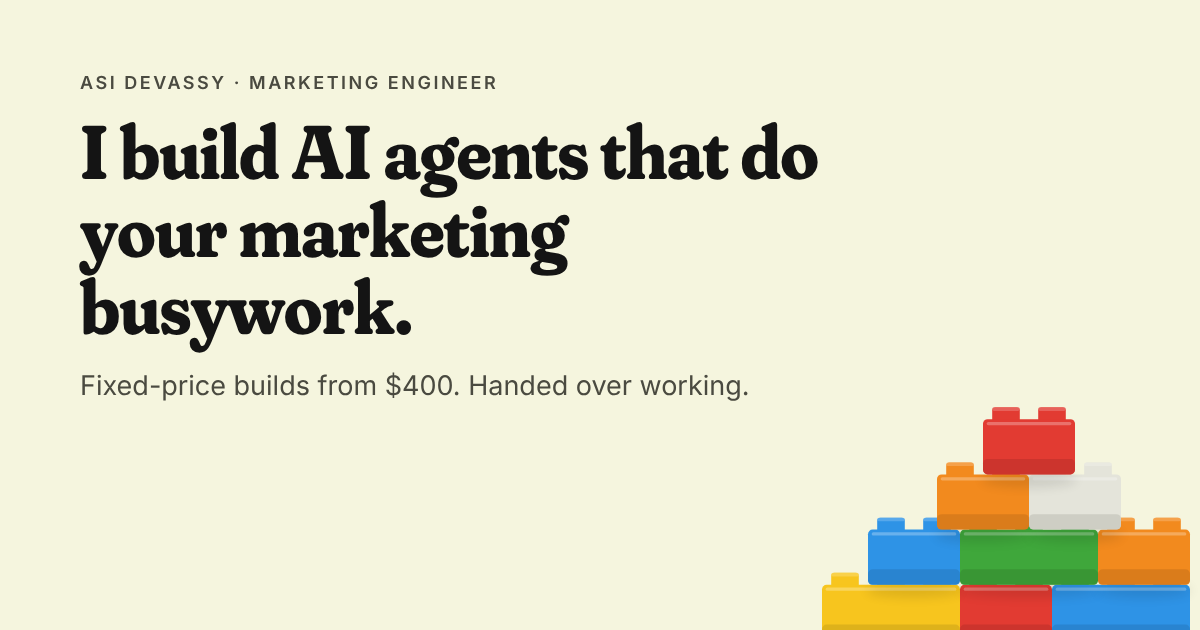
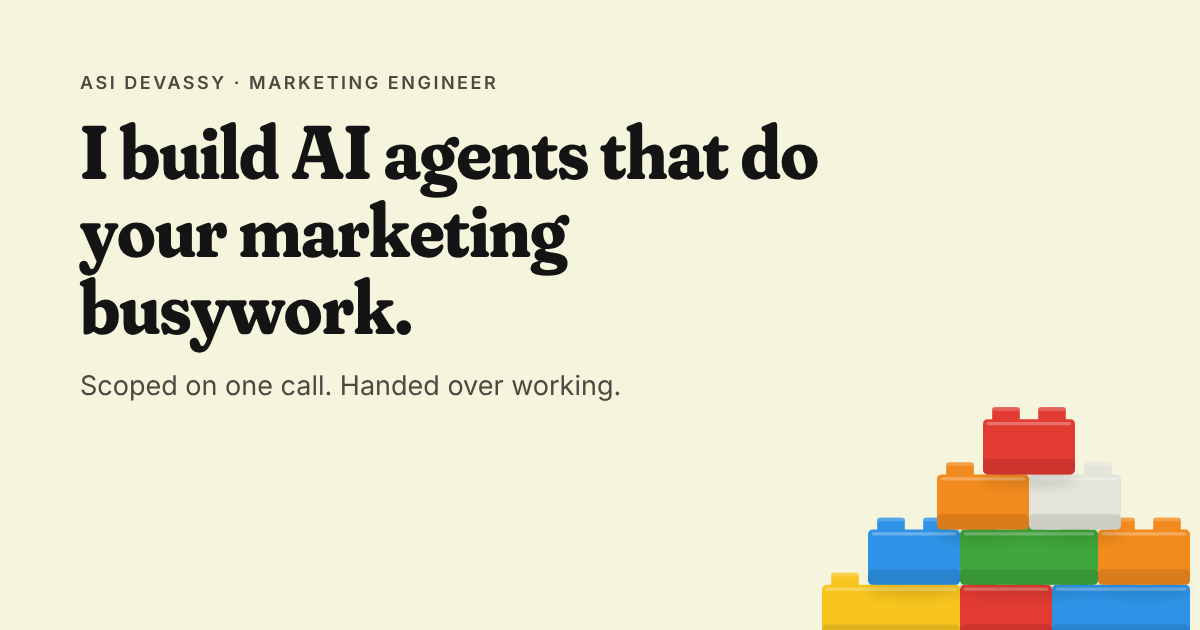
Remove public prices, fix mobile line breaks (#2)
Offers now quote after a 20-minute call. Phone: one-line nav, stacked hero
bricks with short labels, balanced headings, no orphan words.

Claude-Session: https://claude.ai/code/session_016o9eW6doivQFkR9Ekrhgqz

Changed region(s): [[0.0617, 0.573, 0.6167, 0.6333]]

diff --git a/index.html b/index.html
@@ -4,9 +4,9 @@
 <meta charset="utf-8">
 <meta name="viewport" content="width=device-width, initial-scale=1">
 <title>Asi Devassy · AI agents for marketing teams</title>
-<meta name="description" content="I build AI agents and automations that do a marketing team's weekly busywork: reports, competitor tracking and lead alerts. Fixed-price builds from $400.">
+<meta name="description" content="I build AI agents and automations that do a marketing team's weekly busywork: reports, competitor tracking and lead alerts. Scoped on one call, handed over working.">
 <meta property="og:title" content="Asi Devassy · AI agents for marketing teams">
-<meta property="og:description" content="I build AI agents that do your marketing busywork. Fixed-price builds from $400, handed over working.">
+<meta property="og:description" content="I build AI agents that do your marketing busywork. Scoped on one call, handed over working.">
 <meta property="og:image" content="https://assisdevassy.com/og.png">
 <meta property="og:type" content="website">
 <meta name="twitter:card" content="summary_large_image">
@@ -35,6 +35,9 @@ body{background:var(--cream);color:var(--ink);font-family:var(--text);font-size:
 ::selection{background:var(--y);color:var(--ink)}
 a{color:inherit}
 img,svg{display:block}
+h1,h2,h3{text-wrap:balance}
+p,li{text-wrap:pretty}
+.mark{white-space:nowrap}
 .wrap{max-width:1200px;margin:0 auto;padding:0 var(--edge)}
 .d{font-family:var(--display);font-weight:700;font-variation-settings:"SOFT" 100,"WONK" 0,"opsz" 144;letter-spacing:-.012em;line-height:1.02}
 .skip{position:absolute;left:12px;top:-60px;background:var(--ink);color:var(--cream);padding:10px 14px;border-radius:6px;z-index:50}
@@ -93,15 +96,17 @@ section.s{padding:112px 0;border-top:1px solid var(--hairline)}
 
 /* offers */
 .offers{border-top:2px solid var(--ink)}
-.offer{display:grid;grid-template-columns:150px 1fr 170px 210px;gap:28px;align-items:center;padding:28px 0;border-bottom:1px solid var(--hairline)}
+.offer{display:grid;grid-template-columns:150px 1fr 190px;gap:28px;align-items:center;padding:28px 0;border-bottom:1px solid var(--hairline)}
 .mini{display:flex;flex-wrap:wrap;gap:4px 5px;align-items:flex-end}
 .mini .brick{height:22px;width:auto}
 .offer h3{font-family:var(--display);font-weight:700;font-variation-settings:"SOFT" 100,"opsz" 144;font-size:27px;letter-spacing:-.01em;line-height:1.1}
 .offer p{color:var(--ink-2);font-size:16.5px;margin-top:6px;max-width:48ch}
-.offer .t{font-size:15px;color:var(--ink-2)}
+.offer .t{font-size:15px;color:var(--ink-2);text-align:right}
 .offer .p{font-weight:600;font-size:18px;text-align:right}
 .offer .p small{display:block;font-weight:400;font-size:14px;color:var(--ink-2)}
-.teardown{margin-top:40px;display:flex;align-items:center;justify-content:space-between;gap:32px;background:var(--cream-deep);border-radius:12px;padding:28px 32px}
+.quote{margin-top:36px;display:flex;align-items:center;justify-content:space-between;gap:32px}
+.quote p{font-size:18px;max-width:58ch}
+.teardown{margin-top:28px;display:flex;align-items:center;justify-content:space-between;gap:32px;background:var(--cream-deep);border-radius:12px;padding:28px 32px}
 .teardown p{font-size:18px;max-width:62ch}
 .teardown p b{font-weight:600}
 .terms{margin-top:18px;font-size:15px;color:var(--ink-2)}
@@ -169,9 +174,7 @@ footer a{text-underline-offset:3px}
   .hero .wrap{grid-template-columns:1fr;gap:64px}
   .stack{justify-self:start}
   .close h2,.close p{max-width:none}
-  .offer{grid-template-columns:120px 1fr 190px;}
-  .offer .t{grid-column:2;margin-top:-16px}
-  .offer .p{grid-row:1;grid-column:3}
+  .offer{grid-template-columns:120px 1fr 150px}
   .method,.about{grid-template-columns:1fr;gap:56px}
   .about img{max-width:420px}
   .wall{opacity:.35}
@@ -185,14 +188,19 @@ footer a{text-underline-offset:3px}
   section.s{padding:80px 0}
   .shead{grid-template-columns:1fr;gap:16px;margin-bottom:40px}
   .offer{grid-template-columns:1fr;gap:10px;padding:24px 0}
-  .offer .t,.offer .p{grid-column:auto;grid-row:auto;margin:0;text-align:left}
+  .offer .t{text-align:left}
+  .quote{flex-direction:column;align-items:flex-start;gap:20px}
+  .quote .btn{width:100%}
+  .nav .long{display:none}
+  .mark{font-size:21px}
   .teardown{flex-direction:column;align-items:flex-start;padding:24px}
   .teardown .btn{width:100%}
   .steps,.builds{grid-template-columns:1fr}
   .rules li,.tuesday{grid-template-columns:48px 1fr}
-  .row{grid-template-columns:124px 1fr;gap:12px;margin-top:-5px}
-  .row .brick{height:40px;margin-left:calc(var(--x,0) / 2)}
-  .row p{font-size:13px;line-height:1.25;padding-top:8px}
+  .stack h2 b{font-size:26px}
+  .row{grid-template-columns:122px 1fr;gap:10px;margin-top:-4px}
+  .row .brick{height:34px;margin-left:calc(var(--x,0) / 3)}
+  .row p{font-size:13.5px;line-height:1.12;padding-top:6px;white-space:nowrap}
   .row p b{display:block;margin:0}
   .wall{display:none}
   .close{padding:88px 0}
@@ -206,11 +214,11 @@ footer a{text-underline-offset:3px}
   <div class="wrap">
     <a class="mark d" href="#top" aria-label="Asi Devassy, back to top"><svg class="brick" viewBox="0 0 60 43.8" width="60" height="43.8" aria-hidden="true" focusable="false"><rect x="6.0" y="0" width="18.0" height="10.8" rx="2.1" fill="#E23B32"/><rect x="6.0" y="0" width="18.0" height="2.4" rx="1.2" fill="#eb7670" opacity=".7"/><rect x="36.0" y="0" width="18.0" height="10.8" rx="2.1" fill="#E23B32"/><rect x="36.0" y="0" width="18.0" height="2.4" rx="1.2" fill="#eb7670" opacity=".7"/><rect y="7.8" width="60.0" height="36.0" rx="3.0" fill="#E23B32"/><rect y="33.7" width="60.0" height="10.1" rx="3.0" fill="#b93029" opacity=".55"/><rect x="2.4" y="9.6" width="55.2" height="2.1" rx="1.1" fill="#fff" opacity=".28"/></svg>Asi Devassy</a>
     <nav class="links" aria-label="Primary">
-      <a href="#offers">Prices</a>
+      <a href="#offers">Services</a>
       <a href="#method">How it works</a>
       <a href="#builds">Builds</a>
       <a href="#about">About</a>
-      <a class="btn solid" href="mailto:assisdevassy@gmail.com?subject=A%20chore%20for%20you">Email me a chore</a>
+      <a class="btn solid" href="mailto:assisdevassy@gmail.com?subject=A%20chore%20for%20you">Email me<span class="long"> a chore</span></a>
     </nav>
   </div>
 </header>
@@ -225,18 +233,18 @@ footer a{text-underline-offset:3px}
       <p class="sub">Weekly reports, competitor tracking, lead alerts. Built on the tools your team already uses, then handed over working, with the run log and the off switch.</p>
       <div class="ctas">
         <a class="btn solid" href="mailto:assisdevassy@gmail.com?subject=A%20chore%20for%20you">Email me a chore</a>
-        <a class="btn line" href="#offers">See the fixed prices</a>
+        <a class="btn line" href="#offers">See what I build</a>
       </div>
-      <p class="facts"><span><b>Six years</b> in marketing</span><span><b>Four</b> open-source builds on GitHub</span><span>Builds from <b>$400</b></span></p>
+      <p class="facts"><span><b>Six years</b> in marketing</span><span><b>Four</b> open-source builds on GitHub</span><span><b>Fixed quote</b> after one call</span></p>
     </div>
 
-    <div class="stack" role="img" aria-label="A weekly performance report split into its parts: a script pulls seven sources, an agent writes what moved and why, it reads your metric rules and past reports, you approve it, and it runs every Monday morning.">
+    <div class="stack" role="img" aria-label="A weekly performance report split into its parts: a script pulls in seven sources, an agent writes what moved and why using your metric rules, you approve it first, and it runs every Monday morning.">
       <h2>One chore, sorted into bricks<b>Weekly performance report</b></h2>
       <div class="row" style="--i:4;z-index:5;--x:60px"><svg class="brick" viewBox="0 0 120 58.4" width="120" height="58.4" aria-hidden="true" focusable="false"><rect x="8.0" y="0" width="24.0" height="14.4" rx="2.8" fill="#F28A1E"/><rect x="8.0" y="0" width="24.0" height="3.2" rx="1.6" fill="#f6ad62" opacity=".7"/><rect x="48.0" y="0" width="24.0" height="14.4" rx="2.8" fill="#F28A1E"/><rect x="48.0" y="0" width="24.0" height="3.2" rx="1.6" fill="#f6ad62" opacity=".7"/><rect x="88.0" y="0" width="24.0" height="14.4" rx="2.8" fill="#F28A1E"/><rect x="88.0" y="0" width="24.0" height="3.2" rx="1.6" fill="#f6ad62" opacity=".7"/><rect y="10.4" width="120.0" height="48.0" rx="4.0" fill="#F28A1E"/><rect y="45.0" width="120.0" height="13.4" rx="4.0" fill="#c67119" opacity=".55"/><rect x="3.2" y="12.8" width="113.6" height="2.8" rx="1.4" fill="#fff" opacity=".28"/></svg><p><b>Schedule</b>Runs every Monday.</p></div>
-      <div class="row" style="--i:3;z-index:4;--x:40px"><svg class="brick" viewBox="0 0 80 58.4" width="80" height="58.4" aria-hidden="true" focusable="false"><rect x="8.0" y="0" width="24.0" height="14.4" rx="2.8" fill="#E23B32"/><rect x="8.0" y="0" width="24.0" height="3.2" rx="1.6" fill="#eb7670" opacity=".7"/><rect x="48.0" y="0" width="24.0" height="14.4" rx="2.8" fill="#E23B32"/><rect x="48.0" y="0" width="24.0" height="3.2" rx="1.6" fill="#eb7670" opacity=".7"/><rect y="10.4" width="80.0" height="48.0" rx="4.0" fill="#E23B32"/><rect y="45.0" width="80.0" height="13.4" rx="4.0" fill="#b93029" opacity=".55"/><rect x="3.2" y="12.8" width="73.6" height="2.8" rx="1.4" fill="#fff" opacity=".28"/></svg><p><b>Human</b>You approve it before it ships.</p></div>
+      <div class="row" style="--i:3;z-index:4;--x:40px"><svg class="brick" viewBox="0 0 80 58.4" width="80" height="58.4" aria-hidden="true" focusable="false"><rect x="8.0" y="0" width="24.0" height="14.4" rx="2.8" fill="#E23B32"/><rect x="8.0" y="0" width="24.0" height="3.2" rx="1.6" fill="#eb7670" opacity=".7"/><rect x="48.0" y="0" width="24.0" height="14.4" rx="2.8" fill="#E23B32"/><rect x="48.0" y="0" width="24.0" height="3.2" rx="1.6" fill="#eb7670" opacity=".7"/><rect y="10.4" width="80.0" height="48.0" rx="4.0" fill="#E23B32"/><rect y="45.0" width="80.0" height="13.4" rx="4.0" fill="#b93029" opacity=".55"/><rect x="3.2" y="12.8" width="73.6" height="2.8" rx="1.4" fill="#fff" opacity=".28"/></svg><p><b>Human</b>You approve it first.</p></div>
       <div class="row" style="--i:2;z-index:3"><svg class="brick" viewBox="0 0 160 58.4" width="160" height="58.4" aria-hidden="true" focusable="false"><rect x="8.0" y="0" width="24.0" height="14.4" rx="2.8" fill="#2E93E6"/><rect x="8.0" y="0" width="24.0" height="3.2" rx="1.6" fill="#6db3ee" opacity=".7"/><rect x="48.0" y="0" width="24.0" height="14.4" rx="2.8" fill="#2E93E6"/><rect x="48.0" y="0" width="24.0" height="3.2" rx="1.6" fill="#6db3ee" opacity=".7"/><rect x="88.0" y="0" width="24.0" height="14.4" rx="2.8" fill="#2E93E6"/><rect x="88.0" y="0" width="24.0" height="3.2" rx="1.6" fill="#6db3ee" opacity=".7"/><rect x="128.0" y="0" width="24.0" height="14.4" rx="2.8" fill="#2E93E6"/><rect x="128.0" y="0" width="24.0" height="3.2" rx="1.6" fill="#6db3ee" opacity=".7"/><rect y="10.4" width="160.0" height="48.0" rx="4.0" fill="#2E93E6"/><rect y="45.0" width="160.0" height="13.4" rx="4.0" fill="#2679bd" opacity=".55"/><rect x="3.2" y="12.8" width="153.6" height="2.8" rx="1.4" fill="#fff" opacity=".28"/></svg><p><b>Agent</b>Writes what moved and why.</p></div>
       <div class="row" style="--i:1;z-index:2;--x:20px"><svg class="brick" viewBox="0 0 120 58.4" width="120" height="58.4" aria-hidden="true" focusable="false"><rect x="8.0" y="0" width="24.0" height="14.4" rx="2.8" fill="#3FA73B"/><rect x="8.0" y="0" width="24.0" height="3.2" rx="1.6" fill="#79c176" opacity=".7"/><rect x="48.0" y="0" width="24.0" height="14.4" rx="2.8" fill="#3FA73B"/><rect x="48.0" y="0" width="24.0" height="3.2" rx="1.6" fill="#79c176" opacity=".7"/><rect x="88.0" y="0" width="24.0" height="14.4" rx="2.8" fill="#3FA73B"/><rect x="88.0" y="0" width="24.0" height="3.2" rx="1.6" fill="#79c176" opacity=".7"/><rect y="10.4" width="120.0" height="48.0" rx="4.0" fill="#3FA73B"/><rect y="45.0" width="120.0" height="13.4" rx="4.0" fill="#348930" opacity=".55"/><rect x="3.2" y="12.8" width="113.6" height="2.8" rx="1.4" fill="#fff" opacity=".28"/></svg><p><b>Files</b>Reads your metric rules.</p></div>
-      <div class="row" style="--i:0;z-index:1"><svg class="brick" viewBox="0 0 200 58.4" width="200" height="58.4" aria-hidden="true" focusable="false"><rect x="8.0" y="0" width="24.0" height="14.4" rx="2.8" fill="#F7C51E"/><rect x="8.0" y="0" width="24.0" height="3.2" rx="1.6" fill="#f9d662" opacity=".7"/><rect x="48.0" y="0" width="24.0" height="14.4" rx="2.8" fill="#F7C51E"/><rect x="48.0" y="0" width="24.0" height="3.2" rx="1.6" fill="#f9d662" opacity=".7"/><rect x="88.0" y="0" width="24.0" height="14.4" rx="2.8" fill="#F7C51E"/><rect x="88.0" y="0" width="24.0" height="3.2" rx="1.6" fill="#f9d662" opacity=".7"/><rect x="128.0" y="0" width="24.0" height="14.4" rx="2.8" fill="#F7C51E"/><rect x="128.0" y="0" width="24.0" height="3.2" rx="1.6" fill="#f9d662" opacity=".7"/><rect x="168.0" y="0" width="24.0" height="14.4" rx="2.8" fill="#F7C51E"/><rect x="168.0" y="0" width="24.0" height="3.2" rx="1.6" fill="#f9d662" opacity=".7"/><rect y="10.4" width="200.0" height="48.0" rx="4.0" fill="#F7C51E"/><rect y="45.0" width="200.0" height="13.4" rx="4.0" fill="#cba219" opacity=".55"/><rect x="3.2" y="12.8" width="193.6" height="2.8" rx="1.4" fill="#fff" opacity=".28"/></svg><p><b>Script</b>Pulls 7 sources into one sheet.</p></div>
+      <div class="row" style="--i:0;z-index:1"><svg class="brick" viewBox="0 0 200 58.4" width="200" height="58.4" aria-hidden="true" focusable="false"><rect x="8.0" y="0" width="24.0" height="14.4" rx="2.8" fill="#F7C51E"/><rect x="8.0" y="0" width="24.0" height="3.2" rx="1.6" fill="#f9d662" opacity=".7"/><rect x="48.0" y="0" width="24.0" height="14.4" rx="2.8" fill="#F7C51E"/><rect x="48.0" y="0" width="24.0" height="3.2" rx="1.6" fill="#f9d662" opacity=".7"/><rect x="88.0" y="0" width="24.0" height="14.4" rx="2.8" fill="#F7C51E"/><rect x="88.0" y="0" width="24.0" height="3.2" rx="1.6" fill="#f9d662" opacity=".7"/><rect x="128.0" y="0" width="24.0" height="14.4" rx="2.8" fill="#F7C51E"/><rect x="128.0" y="0" width="24.0" height="3.2" rx="1.6" fill="#f9d662" opacity=".7"/><rect x="168.0" y="0" width="24.0" height="14.4" rx="2.8" fill="#F7C51E"/><rect x="168.0" y="0" width="24.0" height="3.2" rx="1.6" fill="#f9d662" opacity=".7"/><rect y="10.4" width="200.0" height="48.0" rx="4.0" fill="#F7C51E"/><rect y="45.0" width="200.0" height="13.4" rx="4.0" fill="#cba219" opacity=".55"/><rect x="3.2" y="12.8" width="193.6" height="2.8" rx="1.4" fill="#fff" opacity=".28"/></svg><p><b>Script</b>Pulls in all 7 sources.</p></div>
     </div>
   </div>
 </section>
@@ -244,8 +252,8 @@ footer a{text-underline-offset:3px}
 <section class="s" id="offers">
   <div class="wrap">
     <div class="shead">
-      <h2 class="d">Five fixed-price builds</h2>
-      <p>Small scope, agreed on one call. You get working code on your own accounts, not a slide deck.</p>
+      <h2 class="d">Five builds, quoted after one call</h2>
+      <p>Each one has a small, fixed scope. Tell me your tools on a 20-minute call and you get a fixed quote. You get working code on your own accounts, not a slide deck.</p>
     </div>
 
     <div class="offers">
@@ -253,37 +261,37 @@ footer a{text-underline-offset:3px}
         <div class="mini" aria-label="Built from script, agent, human and schedule bricks"><svg class="brick" viewBox="0 0 60 29.2" width="60" height="29.2" aria-hidden="true" focusable="false"><rect x="4.0" y="0" width="12.0" height="7.2" rx="1.4" fill="#F7C51E"/><rect x="4.0" y="0" width="12.0" height="1.6" rx="0.8" fill="#f9d662" opacity=".7"/><rect x="24.0" y="0" width="12.0" height="7.2" rx="1.4" fill="#F7C51E"/><rect x="24.0" y="0" width="12.0" height="1.6" rx="0.8" fill="#f9d662" opacity=".7"/><rect x="44.0" y="0" width="12.0" height="7.2" rx="1.4" fill="#F7C51E"/><rect x="44.0" y="0" width="12.0" height="1.6" rx="0.8" fill="#f9d662" opacity=".7"/><rect y="5.2" width="60.0" height="24.0" rx="2.0" fill="#F7C51E"/><rect y="22.5" width="60.0" height="6.7" rx="2.0" fill="#cba219" opacity=".55"/><rect x="1.6" y="6.4" width="56.8" height="1.4" rx="0.7" fill="#fff" opacity=".28"/></svg><svg class="brick" viewBox="0 0 40 29.2" width="40" height="29.2" aria-hidden="true" focusable="false"><rect x="4.0" y="0" width="12.0" height="7.2" rx="1.4" fill="#2E93E6"/><rect x="4.0" y="0" width="12.0" height="1.6" rx="0.8" fill="#6db3ee" opacity=".7"/><rect x="24.0" y="0" width="12.0" height="7.2" rx="1.4" fill="#2E93E6"/><rect x="24.0" y="0" width="12.0" height="1.6" rx="0.8" fill="#6db3ee" opacity=".7"/><rect y="5.2" width="40.0" height="24.0" rx="2.0" fill="#2E93E6"/><rect y="22.5" width="40.0" height="6.7" rx="2.0" fill="#2679bd" opacity=".55"/><rect x="1.6" y="6.4" width="36.8" height="1.4" rx="0.7" fill="#fff" opacity=".28"/></svg><svg class="brick" viewBox="0 0 20 29.2" width="20" height="29.2" aria-hidden="true" focusable="false"><rect x="4.0" y="0" width="12.0" height="7.2" rx="1.4" fill="#E23B32"/><rect x="4.0" y="0" width="12.0" height="1.6" rx="0.8" fill="#eb7670" opacity=".7"/><rect y="5.2" width="20.0" height="24.0" rx="2.0" fill="#E23B32"/><rect y="22.5" width="20.0" height="6.7" rx="2.0" fill="#b93029" opacity=".55"/><rect x="1.6" y="6.4" width="16.8" height="1.4" rx="0.7" fill="#fff" opacity=".28"/></svg><svg class="brick" viewBox="0 0 40 29.2" width="40" height="29.2" aria-hidden="true" focusable="false"><rect x="4.0" y="0" width="12.0" height="7.2" rx="1.4" fill="#F28A1E"/><rect x="4.0" y="0" width="12.0" height="1.6" rx="0.8" fill="#f6ad62" opacity=".7"/><rect x="24.0" y="0" width="12.0" height="7.2" rx="1.4" fill="#F28A1E"/><rect x="24.0" y="0" width="12.0" height="1.6" rx="0.8" fill="#f6ad62" opacity=".7"/><rect y="5.2" width="40.0" height="24.0" rx="2.0" fill="#F28A1E"/><rect y="22.5" width="40.0" height="6.7" rx="2.0" fill="#c67119" opacity=".55"/><rect x="1.6" y="6.4" width="36.8" height="1.4" rx="0.7" fill="#fff" opacity=".28"/></svg></div>
         <div><h3>Report Autopilot</h3><p>A weekly marketing report built from your sources, with the numbers checked and the changes explained, posted to Slack or email.</p></div>
         <span class="t">5 days</span>
-        <span class="p">$750 to $1,500</span>
       </article>
       <article class="offer">
         <div class="mini" aria-label="Built from script, agent and schedule bricks"><svg class="brick" viewBox="0 0 40 29.2" width="40" height="29.2" aria-hidden="true" focusable="false"><rect x="4.0" y="0" width="12.0" height="7.2" rx="1.4" fill="#F7C51E"/><rect x="4.0" y="0" width="12.0" height="1.6" rx="0.8" fill="#f9d662" opacity=".7"/><rect x="24.0" y="0" width="12.0" height="7.2" rx="1.4" fill="#F7C51E"/><rect x="24.0" y="0" width="12.0" height="1.6" rx="0.8" fill="#f9d662" opacity=".7"/><rect y="5.2" width="40.0" height="24.0" rx="2.0" fill="#F7C51E"/><rect y="22.5" width="40.0" height="6.7" rx="2.0" fill="#cba219" opacity=".55"/><rect x="1.6" y="6.4" width="36.8" height="1.4" rx="0.7" fill="#fff" opacity=".28"/></svg><svg class="brick" viewBox="0 0 60 29.2" width="60" height="29.2" aria-hidden="true" focusable="false"><rect x="4.0" y="0" width="12.0" height="7.2" rx="1.4" fill="#2E93E6"/><rect x="4.0" y="0" width="12.0" height="1.6" rx="0.8" fill="#6db3ee" opacity=".7"/><rect x="24.0" y="0" width="12.0" height="7.2" rx="1.4" fill="#2E93E6"/><rect x="24.0" y="0" width="12.0" height="1.6" rx="0.8" fill="#6db3ee" opacity=".7"/><rect x="44.0" y="0" width="12.0" height="7.2" rx="1.4" fill="#2E93E6"/><rect x="44.0" y="0" width="12.0" height="1.6" rx="0.8" fill="#6db3ee" opacity=".7"/><rect y="5.2" width="60.0" height="24.0" rx="2.0" fill="#2E93E6"/><rect y="22.5" width="60.0" height="6.7" rx="2.0" fill="#2679bd" opacity=".55"/><rect x="1.6" y="6.4" width="56.8" height="1.4" rx="0.7" fill="#fff" opacity=".28"/></svg><svg class="brick" viewBox="0 0 40 29.2" width="40" height="29.2" aria-hidden="true" focusable="false"><rect x="4.0" y="0" width="12.0" height="7.2" rx="1.4" fill="#F28A1E"/><rect x="4.0" y="0" width="12.0" height="1.6" rx="0.8" fill="#f6ad62" opacity=".7"/><rect x="24.0" y="0" width="12.0" height="7.2" rx="1.4" fill="#F28A1E"/><rect x="24.0" y="0" width="12.0" height="1.6" rx="0.8" fill="#f6ad62" opacity=".7"/><rect y="5.2" width="40.0" height="24.0" rx="2.0" fill="#F28A1E"/><rect y="22.5" width="40.0" height="6.7" rx="2.0" fill="#c67119" opacity=".55"/><rect x="1.6" y="6.4" width="36.8" height="1.4" rx="0.7" fill="#fff" opacity=".28"/></svg></div>
         <div><h3>Competitor Signal Desk</h3><p>A Monday brief of five competitor moves and ads, each with a line on what it means for you.</p></div>
         <span class="t">5 days, then weekly</span>
-        <span class="p">$500 setup<small>then $200 a month</small></span>
       </article>
       <article class="offer">
         <div class="mini" aria-label="Built from script, agent and human bricks"><svg class="brick" viewBox="0 0 40 29.2" width="40" height="29.2" aria-hidden="true" focusable="false"><rect x="4.0" y="0" width="12.0" height="7.2" rx="1.4" fill="#F7C51E"/><rect x="4.0" y="0" width="12.0" height="1.6" rx="0.8" fill="#f9d662" opacity=".7"/><rect x="24.0" y="0" width="12.0" height="7.2" rx="1.4" fill="#F7C51E"/><rect x="24.0" y="0" width="12.0" height="1.6" rx="0.8" fill="#f9d662" opacity=".7"/><rect y="5.2" width="40.0" height="24.0" rx="2.0" fill="#F7C51E"/><rect y="22.5" width="40.0" height="6.7" rx="2.0" fill="#cba219" opacity=".55"/><rect x="1.6" y="6.4" width="36.8" height="1.4" rx="0.7" fill="#fff" opacity=".28"/></svg><svg class="brick" viewBox="0 0 60 29.2" width="60" height="29.2" aria-hidden="true" focusable="false"><rect x="4.0" y="0" width="12.0" height="7.2" rx="1.4" fill="#2E93E6"/><rect x="4.0" y="0" width="12.0" height="1.6" rx="0.8" fill="#6db3ee" opacity=".7"/><rect x="24.0" y="0" width="12.0" height="7.2" rx="1.4" fill="#2E93E6"/><rect x="24.0" y="0" width="12.0" height="1.6" rx="0.8" fill="#6db3ee" opacity=".7"/><rect x="44.0" y="0" width="12.0" height="7.2" rx="1.4" fill="#2E93E6"/><rect x="44.0" y="0" width="12.0" height="1.6" rx="0.8" fill="#6db3ee" opacity=".7"/><rect y="5.2" width="60.0" height="24.0" rx="2.0" fill="#2E93E6"/><rect y="22.5" width="60.0" height="6.7" rx="2.0" fill="#2679bd" opacity=".55"/><rect x="1.6" y="6.4" width="56.8" height="1.4" rx="0.7" fill="#fff" opacity=".28"/></svg><svg class="brick" viewBox="0 0 20 29.2" width="20" height="29.2" aria-hidden="true" focusable="false"><rect x="4.0" y="0" width="12.0" height="7.2" rx="1.4" fill="#E23B32"/><rect x="4.0" y="0" width="12.0" height="1.6" rx="0.8" fill="#eb7670" opacity=".7"/><rect y="5.2" width="20.0" height="24.0" rx="2.0" fill="#E23B32"/><rect y="22.5" width="20.0" height="6.7" rx="2.0" fill="#b93029" opacity=".55"/><rect x="1.6" y="6.4" width="16.8" height="1.4" rx="0.7" fill="#fff" opacity=".28"/></svg></div>
         <div><h3>Lead Signal List</h3><p>Fifty accounts showing buying signals right now, each with the reason to reach out this week.</p></div>
         <span class="t">4 days</span>
-        <span class="p">$500 to $900</span>
       </article>
       <article class="offer">
         <div class="mini" aria-label="Built from files, agent and human bricks"><svg class="brick" viewBox="0 0 40 29.2" width="40" height="29.2" aria-hidden="true" focusable="false"><rect x="4.0" y="0" width="12.0" height="7.2" rx="1.4" fill="#3FA73B"/><rect x="4.0" y="0" width="12.0" height="1.6" rx="0.8" fill="#79c176" opacity=".7"/><rect x="24.0" y="0" width="12.0" height="7.2" rx="1.4" fill="#3FA73B"/><rect x="24.0" y="0" width="12.0" height="1.6" rx="0.8" fill="#79c176" opacity=".7"/><rect y="5.2" width="40.0" height="24.0" rx="2.0" fill="#3FA73B"/><rect y="22.5" width="40.0" height="6.7" rx="2.0" fill="#348930" opacity=".55"/><rect x="1.6" y="6.4" width="36.8" height="1.4" rx="0.7" fill="#fff" opacity=".28"/></svg><svg class="brick" viewBox="0 0 60 29.2" width="60" height="29.2" aria-hidden="true" focusable="false"><rect x="4.0" y="0" width="12.0" height="7.2" rx="1.4" fill="#2E93E6"/><rect x="4.0" y="0" width="12.0" height="1.6" rx="0.8" fill="#6db3ee" opacity=".7"/><rect x="24.0" y="0" width="12.0" height="7.2" rx="1.4" fill="#2E93E6"/><rect x="24.0" y="0" width="12.0" height="1.6" rx="0.8" fill="#6db3ee" opacity=".7"/><rect x="44.0" y="0" width="12.0" height="7.2" rx="1.4" fill="#2E93E6"/><rect x="44.0" y="0" width="12.0" height="1.6" rx="0.8" fill="#6db3ee" opacity=".7"/><rect y="5.2" width="60.0" height="24.0" rx="2.0" fill="#2E93E6"/><rect y="22.5" width="60.0" height="6.7" rx="2.0" fill="#2679bd" opacity=".55"/><rect x="1.6" y="6.4" width="56.8" height="1.4" rx="0.7" fill="#fff" opacity=".28"/></svg><svg class="brick" viewBox="0 0 20 29.2" width="20" height="29.2" aria-hidden="true" focusable="false"><rect x="4.0" y="0" width="12.0" height="7.2" rx="1.4" fill="#E23B32"/><rect x="4.0" y="0" width="12.0" height="1.6" rx="0.8" fill="#eb7670" opacity=".7"/><rect y="5.2" width="20.0" height="24.0" rx="2.0" fill="#E23B32"/><rect y="22.5" width="20.0" height="6.7" rx="2.0" fill="#b93029" opacity=".55"/><rect x="1.6" y="6.4" width="16.8" height="1.4" rx="0.7" fill="#fff" opacity=".28"/></svg></div>
         <div><h3>Content Repurposer</h3><p>One recording or article turned into six posts, a carousel and a short clip, written in your voice.</p></div>
         <span class="t">1 week</span>
-        <span class="p">$600 to $1,200</span>
       </article>
       <article class="offer">
         <div class="mini" aria-label="Built from script and human bricks"><svg class="brick" viewBox="0 0 60 29.2" width="60" height="29.2" aria-hidden="true" focusable="false"><rect x="4.0" y="0" width="12.0" height="7.2" rx="1.4" fill="#F7C51E"/><rect x="4.0" y="0" width="12.0" height="1.6" rx="0.8" fill="#f9d662" opacity=".7"/><rect x="24.0" y="0" width="12.0" height="7.2" rx="1.4" fill="#F7C51E"/><rect x="24.0" y="0" width="12.0" height="1.6" rx="0.8" fill="#f9d662" opacity=".7"/><rect x="44.0" y="0" width="12.0" height="7.2" rx="1.4" fill="#F7C51E"/><rect x="44.0" y="0" width="12.0" height="1.6" rx="0.8" fill="#f9d662" opacity=".7"/><rect y="5.2" width="60.0" height="24.0" rx="2.0" fill="#F7C51E"/><rect y="22.5" width="60.0" height="6.7" rx="2.0" fill="#cba219" opacity=".55"/><rect x="1.6" y="6.4" width="56.8" height="1.4" rx="0.7" fill="#fff" opacity=".28"/></svg><svg class="brick" viewBox="0 0 20 29.2" width="20" height="29.2" aria-hidden="true" focusable="false"><rect x="4.0" y="0" width="12.0" height="7.2" rx="1.4" fill="#E23B32"/><rect x="4.0" y="0" width="12.0" height="1.6" rx="0.8" fill="#eb7670" opacity=".7"/><rect y="5.2" width="20.0" height="24.0" rx="2.0" fill="#E23B32"/><rect y="22.5" width="20.0" height="6.7" rx="2.0" fill="#b93029" opacity=".55"/><rect x="1.6" y="6.4" width="16.8" height="1.4" rx="0.7" fill="#fff" opacity=".28"/></svg></div>
         <div><h3>Tracking Fix</h3><p>GA4 and Tag Manager conversion tracking checked and fixed, so every sale is counted once.</p></div>
         <span class="t">3 days</span>
-        <span class="p">$400 to $800</span>
       </article>
     </div>
 
+    <div class="quote">
+      <p>Every build gets a fixed quote before any work starts. Pricing depends on your tools and how messy the data is, so it takes one call.</p>
+      <a class="btn solid" href="mailto:assisdevassy@gmail.com?subject=20-minute%20call">Book a 20-minute call</a>
+    </div>
+
     <div class="teardown">
-      <p><b>Not sure which chore to start with?</b> Book a Loop Teardown. In one week I map every recurring marketing chore your team does, sort each step into script, agent or human, and spec the top three for a build. From $750.</p>
-      <a class="btn solid" href="mailto:assisdevassy@gmail.com?subject=Loop%20Teardown">Ask for a teardown</a>
+      <p><b>Not sure which chore to start with?</b> Book a Loop Teardown. In one week I map every recurring marketing chore your team does, sort each step into script, agent or human, and spec the top three for a build.</p>
+      <a class="btn line" href="mailto:assisdevassy@gmail.com?subject=Loop%20Teardown">Ask for a teardown</a>
     </div>
     <p class="terms">Half upfront, half on delivery. One page of scope per job: what is in, what is out, one round of changes.</p>
   </div>

diff --git a/tools/index.src.html b/tools/index.src.html
@@ -4,9 +4,9 @@
 <meta charset="utf-8">
 <meta name="viewport" content="width=device-width, initial-scale=1">
 <title>Asi Devassy · AI agents for marketing teams</title>
-<meta name="description" content="I build AI agents and automations that do a marketing team's weekly busywork: reports, competitor tracking and lead alerts. Fixed-price builds from $400.">
+<meta name="description" content="I build AI agents and automations that do a marketing team's weekly busywork: reports, competitor tracking and lead alerts. Scoped on one call, handed over working.">
 <meta property="og:title" content="Asi Devassy · AI agents for marketing teams">
-<meta property="og:description" content="I build AI agents that do your marketing busywork. Fixed-price builds from $400, handed over working.">
+<meta property="og:description" content="I build AI agents that do your marketing busywork. Scoped on one call, handed over working.">
 <meta property="og:image" content="https://assisdevassy.com/og.png">
 <meta property="og:type" content="website">
 <meta name="twitter:card" content="summary_large_image">
@@ -35,6 +35,9 @@ body{background:var(--cream);color:var(--ink);font-family:var(--text);font-size:
 ::selection{background:var(--y);color:var(--ink)}
 a{color:inherit}
 img,svg{display:block}
+h1,h2,h3{text-wrap:balance}
+p,li{text-wrap:pretty}
+.mark{white-space:nowrap}
 .wrap{max-width:1200px;margin:0 auto;padding:0 var(--edge)}
 .d{font-family:var(--display);font-weight:700;font-variation-settings:"SOFT" 100,"WONK" 0,"opsz" 144;letter-spacing:-.012em;line-height:1.02}
 .skip{position:absolute;left:12px;top:-60px;background:var(--ink);color:var(--cream);padding:10px 14px;border-radius:6px;z-index:50}
@@ -93,15 +96,17 @@ section.s{padding:112px 0;border-top:1px solid var(--hairline)}
 
 /* offers */
 .offers{border-top:2px solid var(--ink)}
-.offer{display:grid;grid-template-columns:150px 1fr 170px 210px;gap:28px;align-items:center;padding:28px 0;border-bottom:1px solid var(--hairline)}
+.offer{display:grid;grid-template-columns:150px 1fr 190px;gap:28px;align-items:center;padding:28px 0;border-bottom:1px solid var(--hairline)}
 .mini{display:flex;flex-wrap:wrap;gap:4px 5px;align-items:flex-end}
 .mini .brick{height:22px;width:auto}
 .offer h3{font-family:var(--display);font-weight:700;font-variation-settings:"SOFT" 100,"opsz" 144;font-size:27px;letter-spacing:-.01em;line-height:1.1}
 .offer p{color:var(--ink-2);font-size:16.5px;margin-top:6px;max-width:48ch}
-.offer .t{font-size:15px;color:var(--ink-2)}
+.offer .t{font-size:15px;color:var(--ink-2);text-align:right}
 .offer .p{font-weight:600;font-size:18px;text-align:right}
 .offer .p small{display:block;font-weight:400;font-size:14px;color:var(--ink-2)}
-.teardown{margin-top:40px;display:flex;align-items:center;justify-content:space-between;gap:32px;background:var(--cream-deep);border-radius:12px;padding:28px 32px}
+.quote{margin-top:36px;display:flex;align-items:center;justify-content:space-between;gap:32px}
+.quote p{font-size:18px;max-width:58ch}
+.teardown{margin-top:28px;display:flex;align-items:center;justify-content:space-between;gap:32px;background:var(--cream-deep);border-radius:12px;padding:28px 32px}
 .teardown p{font-size:18px;max-width:62ch}
 .teardown p b{font-weight:600}
 .terms{margin-top:18px;font-size:15px;color:var(--ink-2)}
@@ -169,9 +174,7 @@ footer a{text-underline-offset:3px}
   .hero .wrap{grid-template-columns:1fr;gap:64px}
   .stack{justify-self:start}
   .close h2,.close p{max-width:none}
-  .offer{grid-template-columns:120px 1fr 190px;}
-  .offer .t{grid-column:2;margin-top:-16px}
-  .offer .p{grid-row:1;grid-column:3}
+  .offer{grid-template-columns:120px 1fr 150px}
   .method,.about{grid-template-columns:1fr;gap:56px}
   .about img{max-width:420px}
   .wall{opacity:.35}
@@ -185,14 +188,19 @@ footer a{text-underline-offset:3px}
   section.s{padding:80px 0}
   .shead{grid-template-columns:1fr;gap:16px;margin-bottom:40px}
   .offer{grid-template-columns:1fr;gap:10px;padding:24px 0}
-  .offer .t,.offer .p{grid-column:auto;grid-row:auto;margin:0;text-align:left}
+  .offer .t{text-align:left}
+  .quote{flex-direction:column;align-items:flex-start;gap:20px}
+  .quote .btn{width:100%}
+  .nav .long{display:none}
+  .mark{font-size:21px}
   .teardown{flex-direction:column;align-items:flex-start;padding:24px}
   .teardown .btn{width:100%}
   .steps,.builds{grid-template-columns:1fr}
   .rules li,.tuesday{grid-template-columns:48px 1fr}
-  .row{grid-template-columns:124px 1fr;gap:12px;margin-top:-5px}
-  .row .brick{height:40px;margin-left:calc(var(--x,0) / 2)}
-  .row p{font-size:13px;line-height:1.25;padding-top:8px}
+  .stack h2 b{font-size:26px}
+  .row{grid-template-columns:122px 1fr;gap:10px;margin-top:-4px}
+  .row .brick{height:34px;margin-left:calc(var(--x,0) / 3)}
+  .row p{font-size:13.5px;line-height:1.12;padding-top:6px;white-space:nowrap}
   .row p b{display:block;margin:0}
   .wall{display:none}
   .close{padding:88px 0}
@@ -206,11 +214,11 @@ footer a{text-underline-offset:3px}
   <div class="wrap">
     <a class="mark d" href="#top" aria-label="Asi Devassy, back to top">{{brick:r:2:30}}Asi Devassy</a>
     <nav class="links" aria-label="Primary">
-      <a href="#offers">Prices</a>
+      <a href="#offers">Services</a>
       <a href="#method">How it works</a>
       <a href="#builds">Builds</a>
       <a href="#about">About</a>
-      <a class="btn solid" href="mailto:{{email}}?subject=A%20chore%20for%20you">Email me a chore</a>
+      <a class="btn solid" href="mailto:{{email}}?subject=A%20chore%20for%20you">Email me<span class="long"> a chore</span></a>
     </nav>
   </div>
 </header>
@@ -225,18 +233,18 @@ footer a{text-underline-offset:3px}
       <p class="sub">Weekly reports, competitor tracking, lead alerts. Built on the tools your team already uses, then handed over working, with the run log and the off switch.</p>
       <div class="ctas">
         <a class="btn solid" href="mailto:{{email}}?subject=A%20chore%20for%20you">Email me a chore</a>
-        <a class="btn line" href="#offers">See the fixed prices</a>
+        <a class="btn line" href="#offers">See what I build</a>
       </div>
-      <p class="facts"><span><b>Six years</b> in marketing</span><span><b>Four</b> open-source builds on GitHub</span><span>Builds from <b>$400</b></span></p>
+      <p class="facts"><span><b>Six years</b> in marketing</span><span><b>Four</b> open-source builds on GitHub</span><span><b>Fixed quote</b> after one call</span></p>
     </div>
 
-    <div class="stack" role="img" aria-label="A weekly performance report split into its parts: a script pulls seven sources, an agent writes what moved and why, it reads your metric rules and past reports, you approve it, and it runs every Monday morning.">
+    <div class="stack" role="img" aria-label="A weekly performance report split into its parts: a script pulls in seven sources, an agent writes what moved and why using your metric rules, you approve it first, and it runs every Monday morning.">
       <h2>One chore, sorted into bricks<b>Weekly performance report</b></h2>
       <div class="row" style="--i:4;z-index:5;--x:60px">{{brick:o:3:40}}<p><b>Schedule</b>Runs every Monday.</p></div>
-      <div class="row" style="--i:3;z-index:4;--x:40px">{{brick:r:2:40}}<p><b>Human</b>You approve it before it ships.</p></div>
+      <div class="row" style="--i:3;z-index:4;--x:40px">{{brick:r:2:40}}<p><b>Human</b>You approve it first.</p></div>
       <div class="row" style="--i:2;z-index:3">{{brick:b:4:40}}<p><b>Agent</b>Writes what moved and why.</p></div>
       <div class="row" style="--i:1;z-index:2;--x:20px">{{brick:g:3:40}}<p><b>Files</b>Reads your metric rules.</p></div>
-      <div class="row" style="--i:0;z-index:1">{{brick:y:5:40}}<p><b>Script</b>Pulls 7 sources into one sheet.</p></div>
+      <div class="row" style="--i:0;z-index:1">{{brick:y:5:40}}<p><b>Script</b>Pulls in all 7 sources.</p></div>
     </div>
   </div>
 </section>
@@ -244,8 +252,8 @@ footer a{text-underline-offset:3px}
 <section class="s" id="offers">
   <div class="wrap">
     <div class="shead">
-      <h2 class="d">Five fixed-price builds</h2>
-      <p>Small scope, agreed on one call. You get working code on your own accounts, not a slide deck.</p>
+      <h2 class="d">Five builds, quoted after one call</h2>
+      <p>Each one has a small, fixed scope. Tell me your tools on a 20-minute call and you get a fixed quote. You get working code on your own accounts, not a slide deck.</p>
     </div>
 
     <div class="offers">
@@ -253,37 +261,37 @@ footer a{text-underline-offset:3px}
         <div class="mini" aria-label="Built from script, agent, human and schedule bricks">{{brick:y:3:20}}{{brick:b:2:20}}{{brick:r:1:20}}{{brick:o:2:20}}</div>
         <div><h3>Report Autopilot</h3><p>A weekly marketing report built from your sources, with the numbers checked and the changes explained, posted to Slack or email.</p></div>
         <span class="t">5 days</span>
-        <span class="p">$750 to $1,500</span>
       </article>
       <article class="offer">
         <div class="mini" aria-label="Built from script, agent and schedule bricks">{{brick:y:2:20}}{{brick:b:3:20}}{{brick:o:2:20}}</div>
         <div><h3>Competitor Signal Desk</h3><p>A Monday brief of five competitor moves and ads, each with a line on what it means for you.</p></div>
         <span class="t">5 days, then weekly</span>
-        <span class="p">$500 setup<small>then $200 a month</small></span>
       </article>
       <article class="offer">
         <div class="mini" aria-label="Built from script, agent and human bricks">{{brick:y:2:20}}{{brick:b:3:20}}{{brick:r:1:20}}</div>
         <div><h3>Lead Signal List</h3><p>Fifty accounts showing buying signals right now, each with the reason to reach out this week.</p></div>
         <span class="t">4 days</span>
-        <span class="p">$500 to $900</span>
       </article>
       <article class="offer">
         <div class="mini" aria-label="Built from files, agent and human bricks">{{brick:g:2:20}}{{brick:b:3:20}}{{brick:r:1:20}}</div>
         <div><h3>Content Repurposer</h3><p>One recording or article turned into six posts, a carousel and a short clip, written in your voice.</p></div>
         <span class="t">1 week</span>
-        <span class="p">$600 to $1,200</span>
       </article>
       <article class="offer">
         <div class="mini" aria-label="Built from script and human bricks">{{brick:y:3:20}}{{brick:r:1:20}}</div>
         <div><h3>Tracking Fix</h3><p>GA4 and Tag Manager conversion tracking checked and fixed, so every sale is counted once.</p></div>
         <span class="t">3 days</span>
-        <span class="p">$400 to $800</span>
       </article>
     </div>
 
+    <div class="quote">
+      <p>Every build gets a fixed quote before any work starts. Pricing depends on your tools and how messy the data is, so it takes one call.</p>
+      <a class="btn solid" href="mailto:{{email}}?subject=20-minute%20call">Book a 20-minute call</a>
+    </div>
+
     <div class="teardown">
-      <p><b>Not sure which chore to start with?</b> Book a Loop Teardown. In one week I map every recurring marketing chore your team does, sort each step into script, agent or human, and spec the top three for a build. From $750.</p>
-      <a class="btn solid" href="mailto:{{email}}?subject=Loop%20Teardown">Ask for a teardown</a>
+      <p><b>Not sure which chore to start with?</b> Book a Loop Teardown. In one week I map every recurring marketing chore your team does, sort each step into script, agent or human, and spec the top three for a build.</p>
+      <a class="btn line" href="mailto:{{email}}?subject=Loop%20Teardown">Ask for a teardown</a>
     </div>
     <p class="terms">Half upfront, half on delivery. One page of scope per job: what is in, what is out, one round of changes.</p>
   </div>
